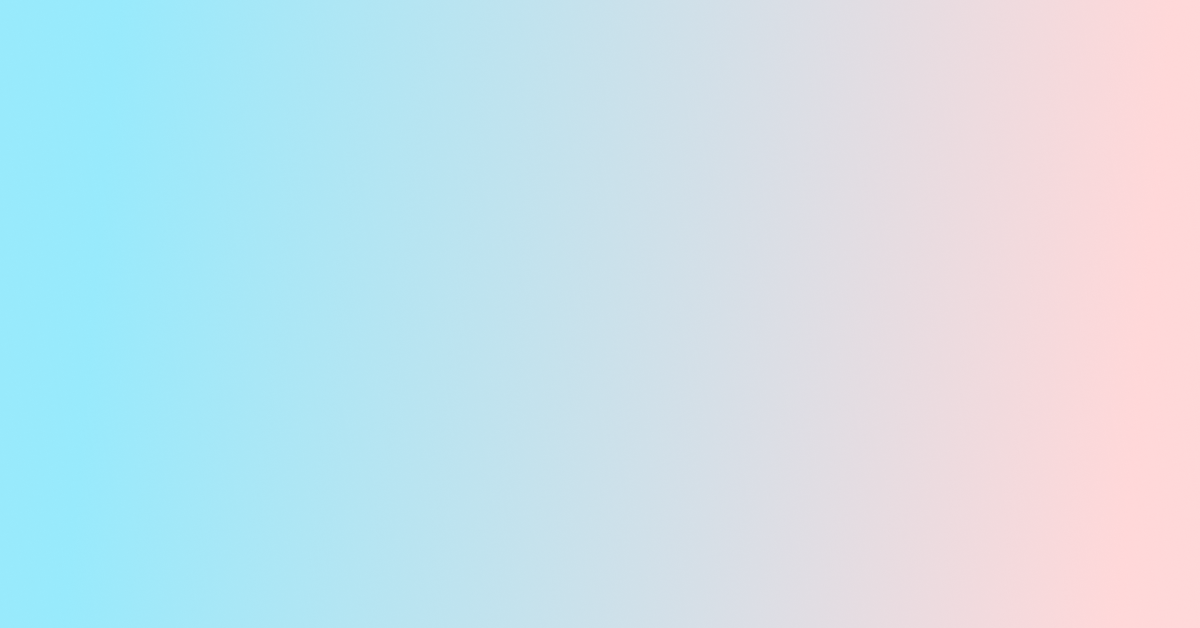
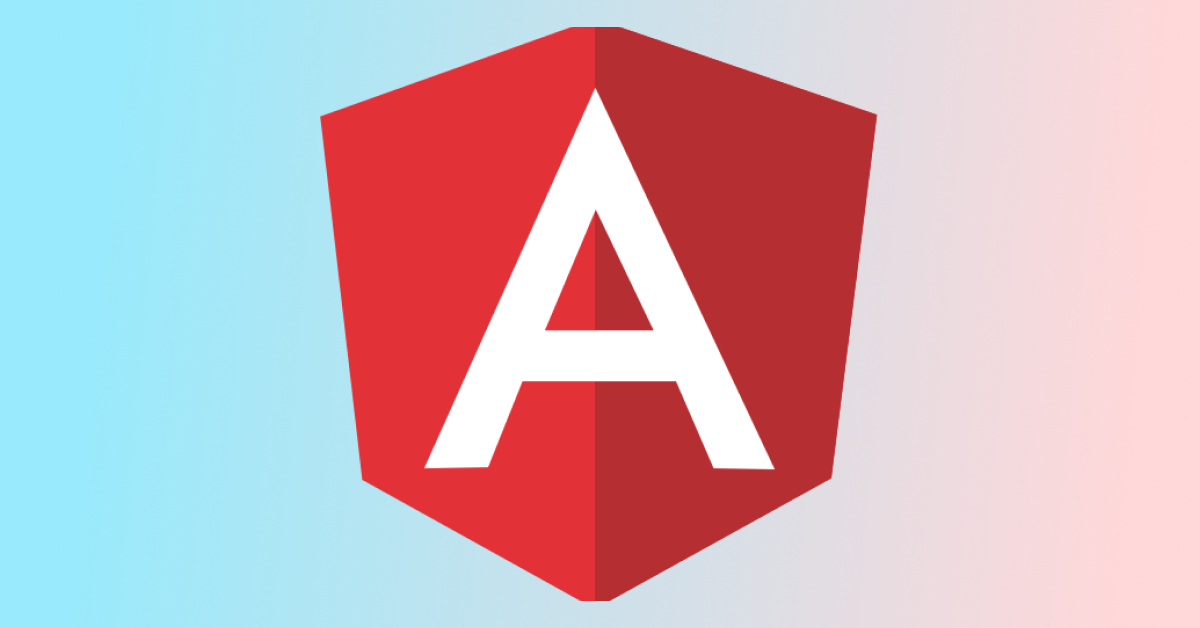
Update README

diff --git a/README.md b/README.md
@@ -1,1 +1,6 @@
-# custom-input-component
+# Angular 12 - Custom form input component
+
+Hi! Let me introduce my new project - Custom form input component that is fully compatible with Angular forms API (Working good in case of Reactive forms & Template
+driven forms), as well as with all built-in and custom form validators.
+
+## ![test](frontend/src/assets/images/preview.png)
